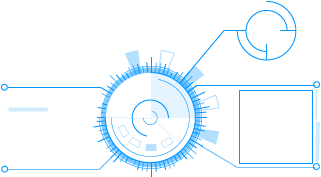
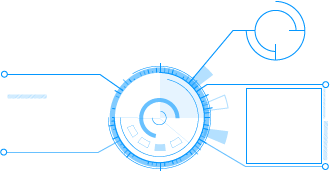
restyle the planets selection and fix the planet info elements positioning

diff --git a/pages/index.jade.less b/pages/index.jade.less
@@ -174,23 +174,23 @@
   position: absolute;
   color: #fff;
   background-image: url("/images/ui/planet_info.png");
-  width: 321px;
-  height: 177px;
+  width: 323px;
+  height: 172px;
   .planet-category {
     position: absolute;
-    bottom: 7px;
+    bottom: 19px;
     #category {
       display:block;
     }
   }
   .planet-production {
-    bottom: 68px;
+    bottom: 78px;
     position: absolute;
   }
   .close-btn {
     color: #0496ff;
     position: absolute;
-    right: 40px;
+    right: 34px;
     top: 20px;
     &:hover {
       color: #fff;
@@ -200,7 +200,6 @@
     position: absolute;
     bottom: -50px;
     left: 44px;
-    width: 100%;
   }
   .player-info {
     .player-name {
@@ -215,8 +214,8 @@
     }
     .player-avatar {
       position: absolute;
-      bottom: 14px;
-      right: 9px;
+      bottom: 10px;
+      right: 2px;
     }
   }
 }
@@ -545,23 +544,27 @@ html, body {
 }
 
 .missions-menu-selection {
-  background-image:url('/images/mission-selection.png');
+  background-image:url('/images/ui/mission-selection.png');
   width: 60px;
   height: 60px;
 }
 
 .planets-selection {
   cursor: pointer;
+  position: absolute;
+  width: 250px;
+  top: 200px;
+  left: -250px;
+  border-image: url("/images/ui/planets_selection.png") 42 9 9 9 repeat;//42px 9px 9px 9px
+  -moz-border-image: url("/images/ui/planets_selection.png") 42 9 9 9 repeat;
+  border-width: 42px 9px 9px 9px;
+  border-style: solid;
   img {
     margin-left: 15px;
     margin-right: 15px;
     width: 30px;
     height: 30px;
   }
-  position: absolute;
-  width: 250px;
-  top: 200px;
-  left: -250px;
 }
 
 .expanded-list-container {
@@ -574,7 +577,7 @@ html, body {
     padding-bottom: 5px;
   }
   .expanded-list-end {
-    background-image: url("/images/ui/selection/planet-info-bottom.png");
+    /*background-image: url("/images/ui/selection/planet-info-bottom.png");*/
     width: 250px;
     height: 10px;
   }
@@ -582,13 +585,13 @@ html, body {
 
 
 .selection-planet-item {
+  padding-top: 5px;
+  padding-bottom: 5px;
   &:hover {
     background: rgba(255, 255, 255, 0.1);
     border-right-color: #f26a21;
     border-right-style: solid;
   };
-  padding-top: 5px;
-  padding-bottom: 5px;
   .deselect-icon {
     padding-right: 6px;
     padding-top: 6px;
@@ -599,10 +602,11 @@ html, body {
 }
 
 .collapsed-list {
-  background-image: url("/images/ui/selection/planet-info-top.png");
+  position: absolute;
+  margin-top: -40px;
   padding-top: 5px;
   padding-bottom: 5px;
-  padding-right: 10px;
+  padding-right: 15px;
   width: 250px;
   a {
     color: rgb(245, 237, 237);
